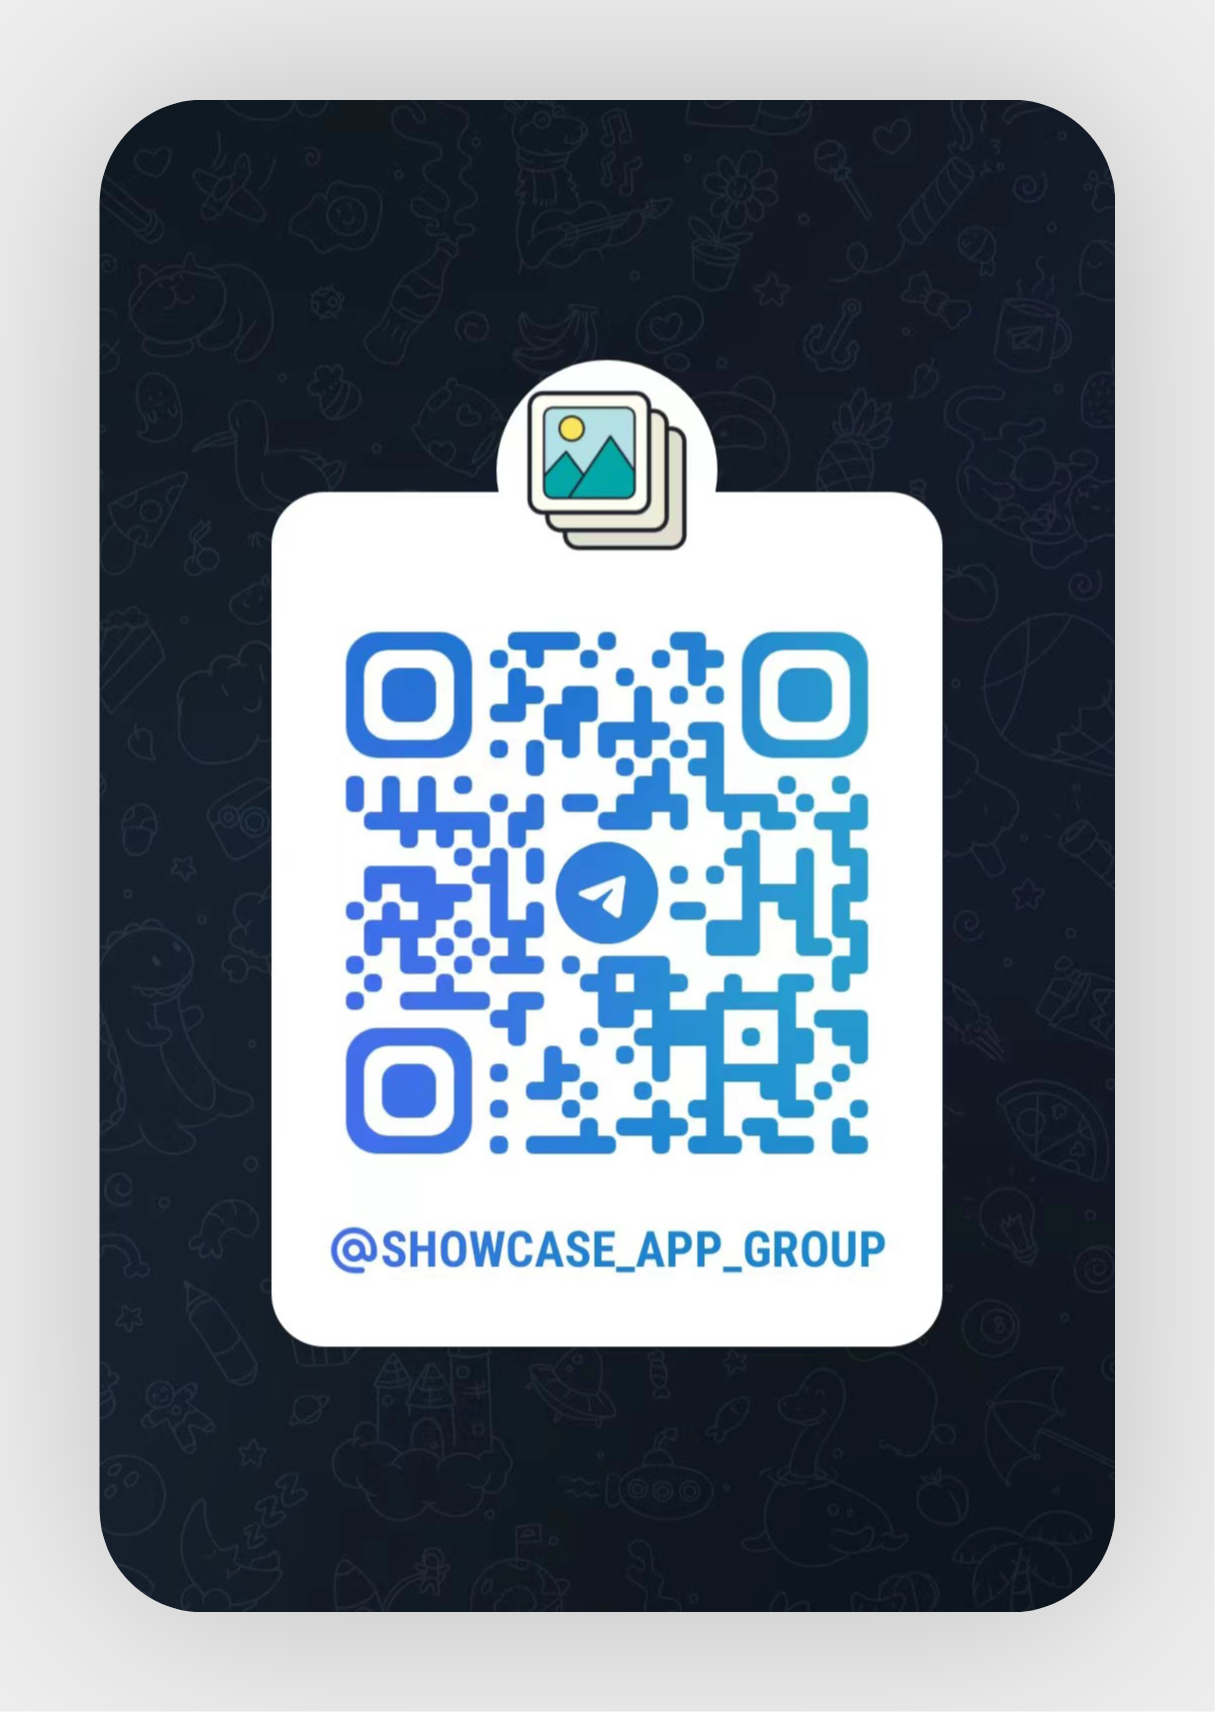
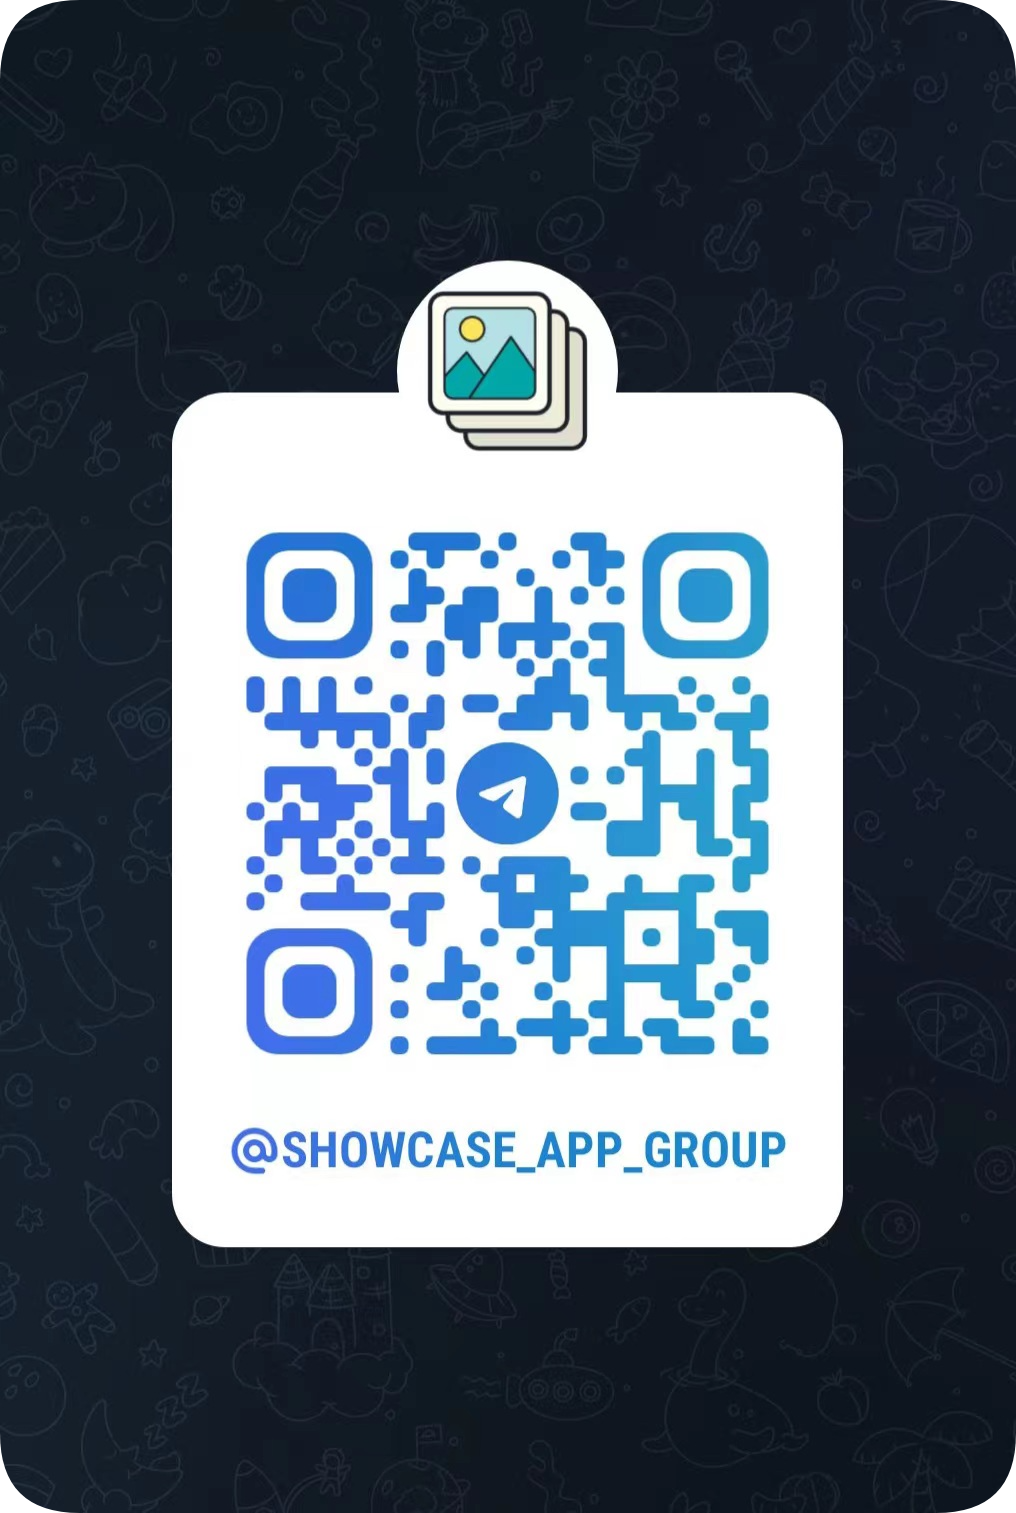
[update] README.md

diff --git a/docs/index.md b/docs/index.md
@@ -11,7 +11,7 @@
 [<img src="https://raw.githubusercontent.com/mrjoechen/ShowcaseApp/main/docs/images/github-badge.png" width="323" height="125" />](https://github.com/mrjoechen/ShowcaseApp/releases/latest)
 
 ### Telegram Group
-[<img src="https://raw.githubusercontent.com/mrjoechen/ShowcaseApp/main/docs/images/showcase_telegram_group.png" width="330" height="432" />](https://t.me/showcase_app_group)
+[<img src="https://raw.githubusercontent.com/mrjoechen/ShowcaseApp/main/docs/images/showcase_telegram_group.png" width="264" height="345" />](https://t.me/showcase_app_group)
 
 - [Donate](https://mrjoechen.github.io/ShowcaseApp/donate)
 - [Privacy policy](https://mrjoechen.github.io/ShowcaseApp/privacypolicy)

diff --git a/README.md b/README.md
@@ -17,7 +17,7 @@
 
 ## Telegram Group
 
-[<img src="/docs/images/showcase_telegram_group.png" width="330" height="432" />](https://t.me/showcase_app_group)
+[<img src="/docs/images/showcase_telegram_group.png" width="264" height="345" />](https://t.me/showcase_app_group)
 
 ### Source of inspiration
 
